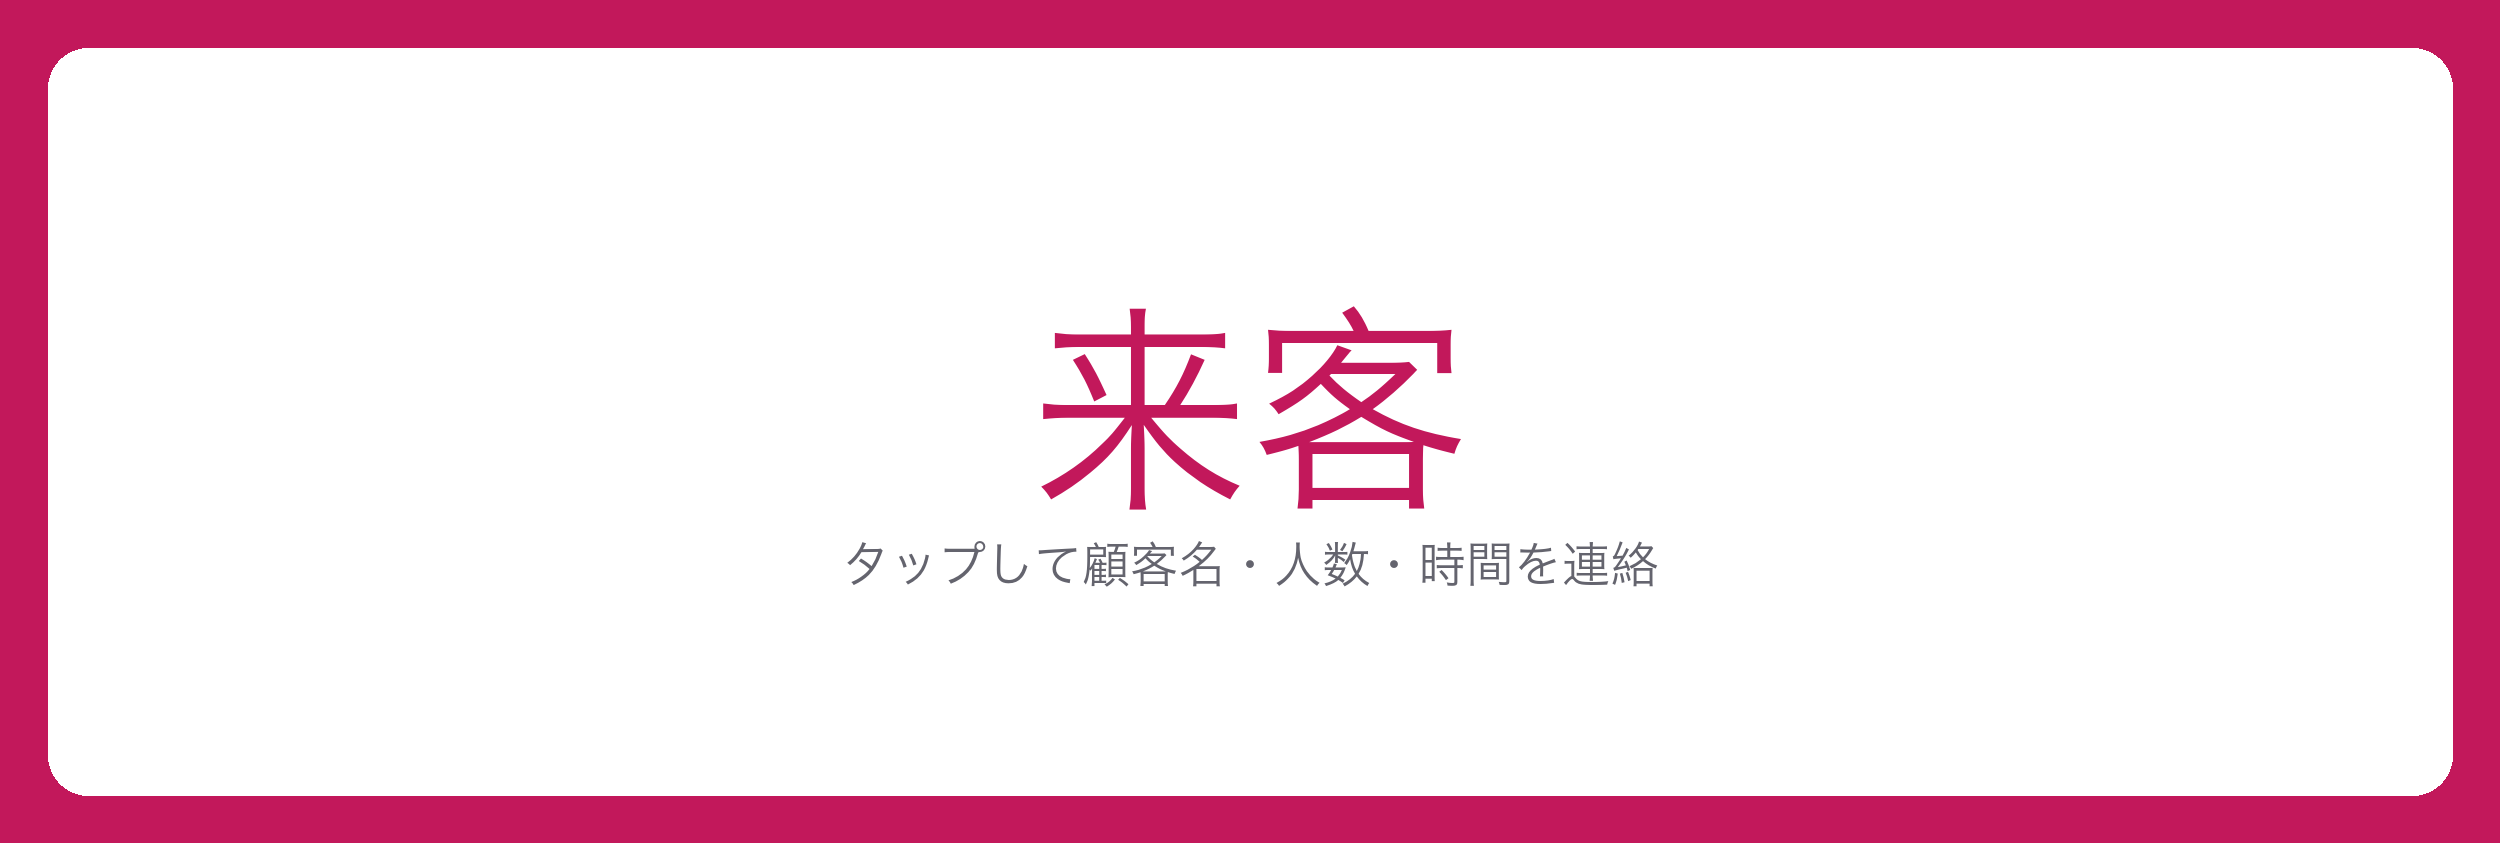
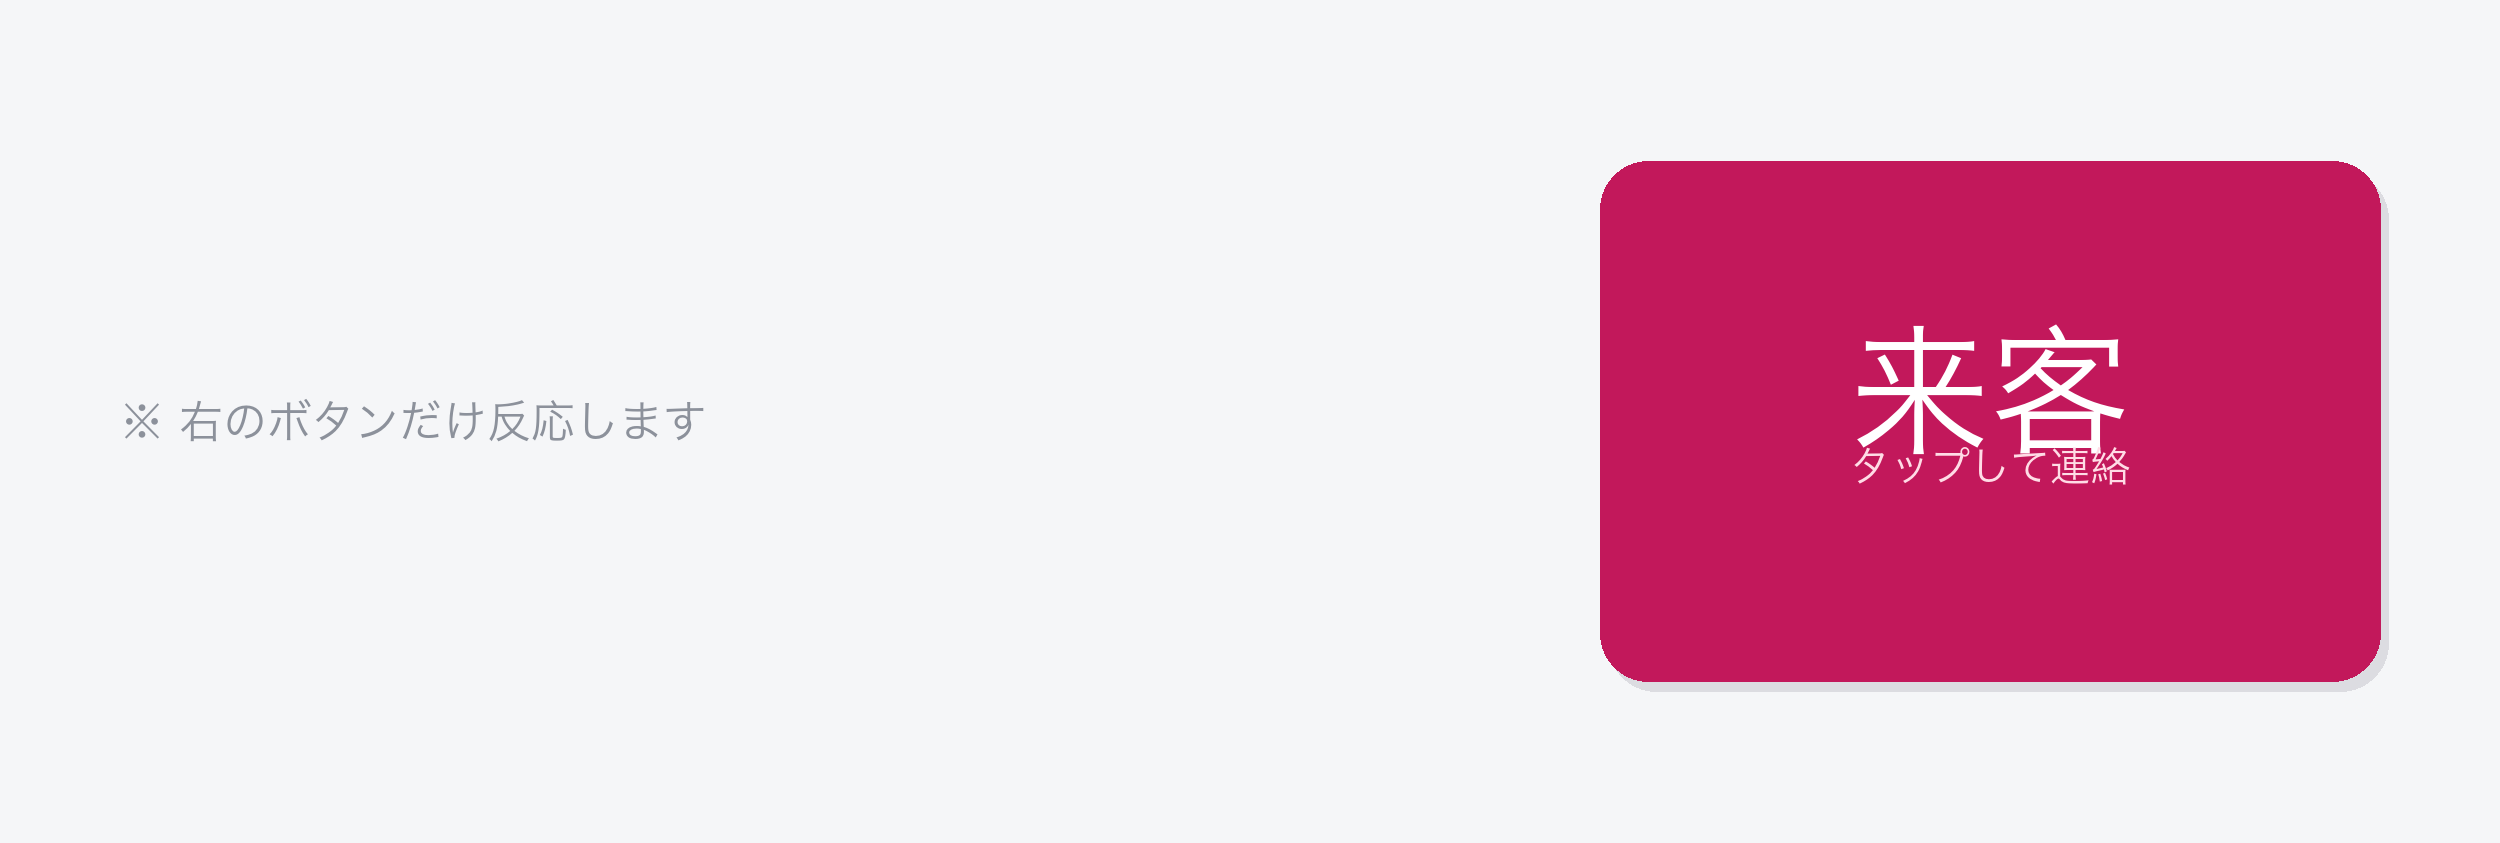
来客リッチメニューのボタン領域を縮小
全面タップをやめ、右側の小さめボタンだけ反応するようにした。

diff --git a/src/lib/line-rich-menu-visitor.ts b/src/lib/line-rich-menu-visitor.ts
@@ -14,9 +14,16 @@ import { VISITOR_ARRIVAL_POSTBACK } from "@/lib/line-visitor-arrival";
 const LINE_API = "https://api.line.me/v2/bot";
 const LINE_DATA_API = "https://api-data.line.me/v2/bot";
 
-/** コンパクトサイズ（横長1段）。全面が「来客」ボタン */
+/** コンパクトサイズ（横長1段）。右寄せの小さめ「来客」ボタンのみ反応 */
 const RICH_MENU_WIDTH = 2500;
 const RICH_MENU_HEIGHT = 843;
+/** 画像上のボタン領域（public/line-rich-menu-visitor.png と一致） */
+const VISITOR_BUTTON_BOUNDS = {
+  x: 1600,
+  y: 161,
+  width: 780,
+  height: 520,
+} as const;
 
 export type CreateVisitorRichMenuResult = {
   richMenuId: string;
@@ -68,16 +75,11 @@ export async function createAndLinkVisitorArrivalRichMenu(
       body: JSON.stringify({
         size: { width: RICH_MENU_WIDTH, height: RICH_MENU_HEIGHT },
         selected: true,
-        name: "visitor_arrival_v1",
+        name: "visitor_arrival_v2",
         chatBarText: "メニュー",
         areas: [
           {
-            bounds: {
-              x: 0,
-              y: 0,
-              width: RICH_MENU_WIDTH,
-              height: RICH_MENU_HEIGHT,
-            },
+            bounds: { ...VISITOR_BUTTON_BOUNDS },
             action: {
               type: "postback",
               data: VISITOR_ARRIVAL_POSTBACK,
